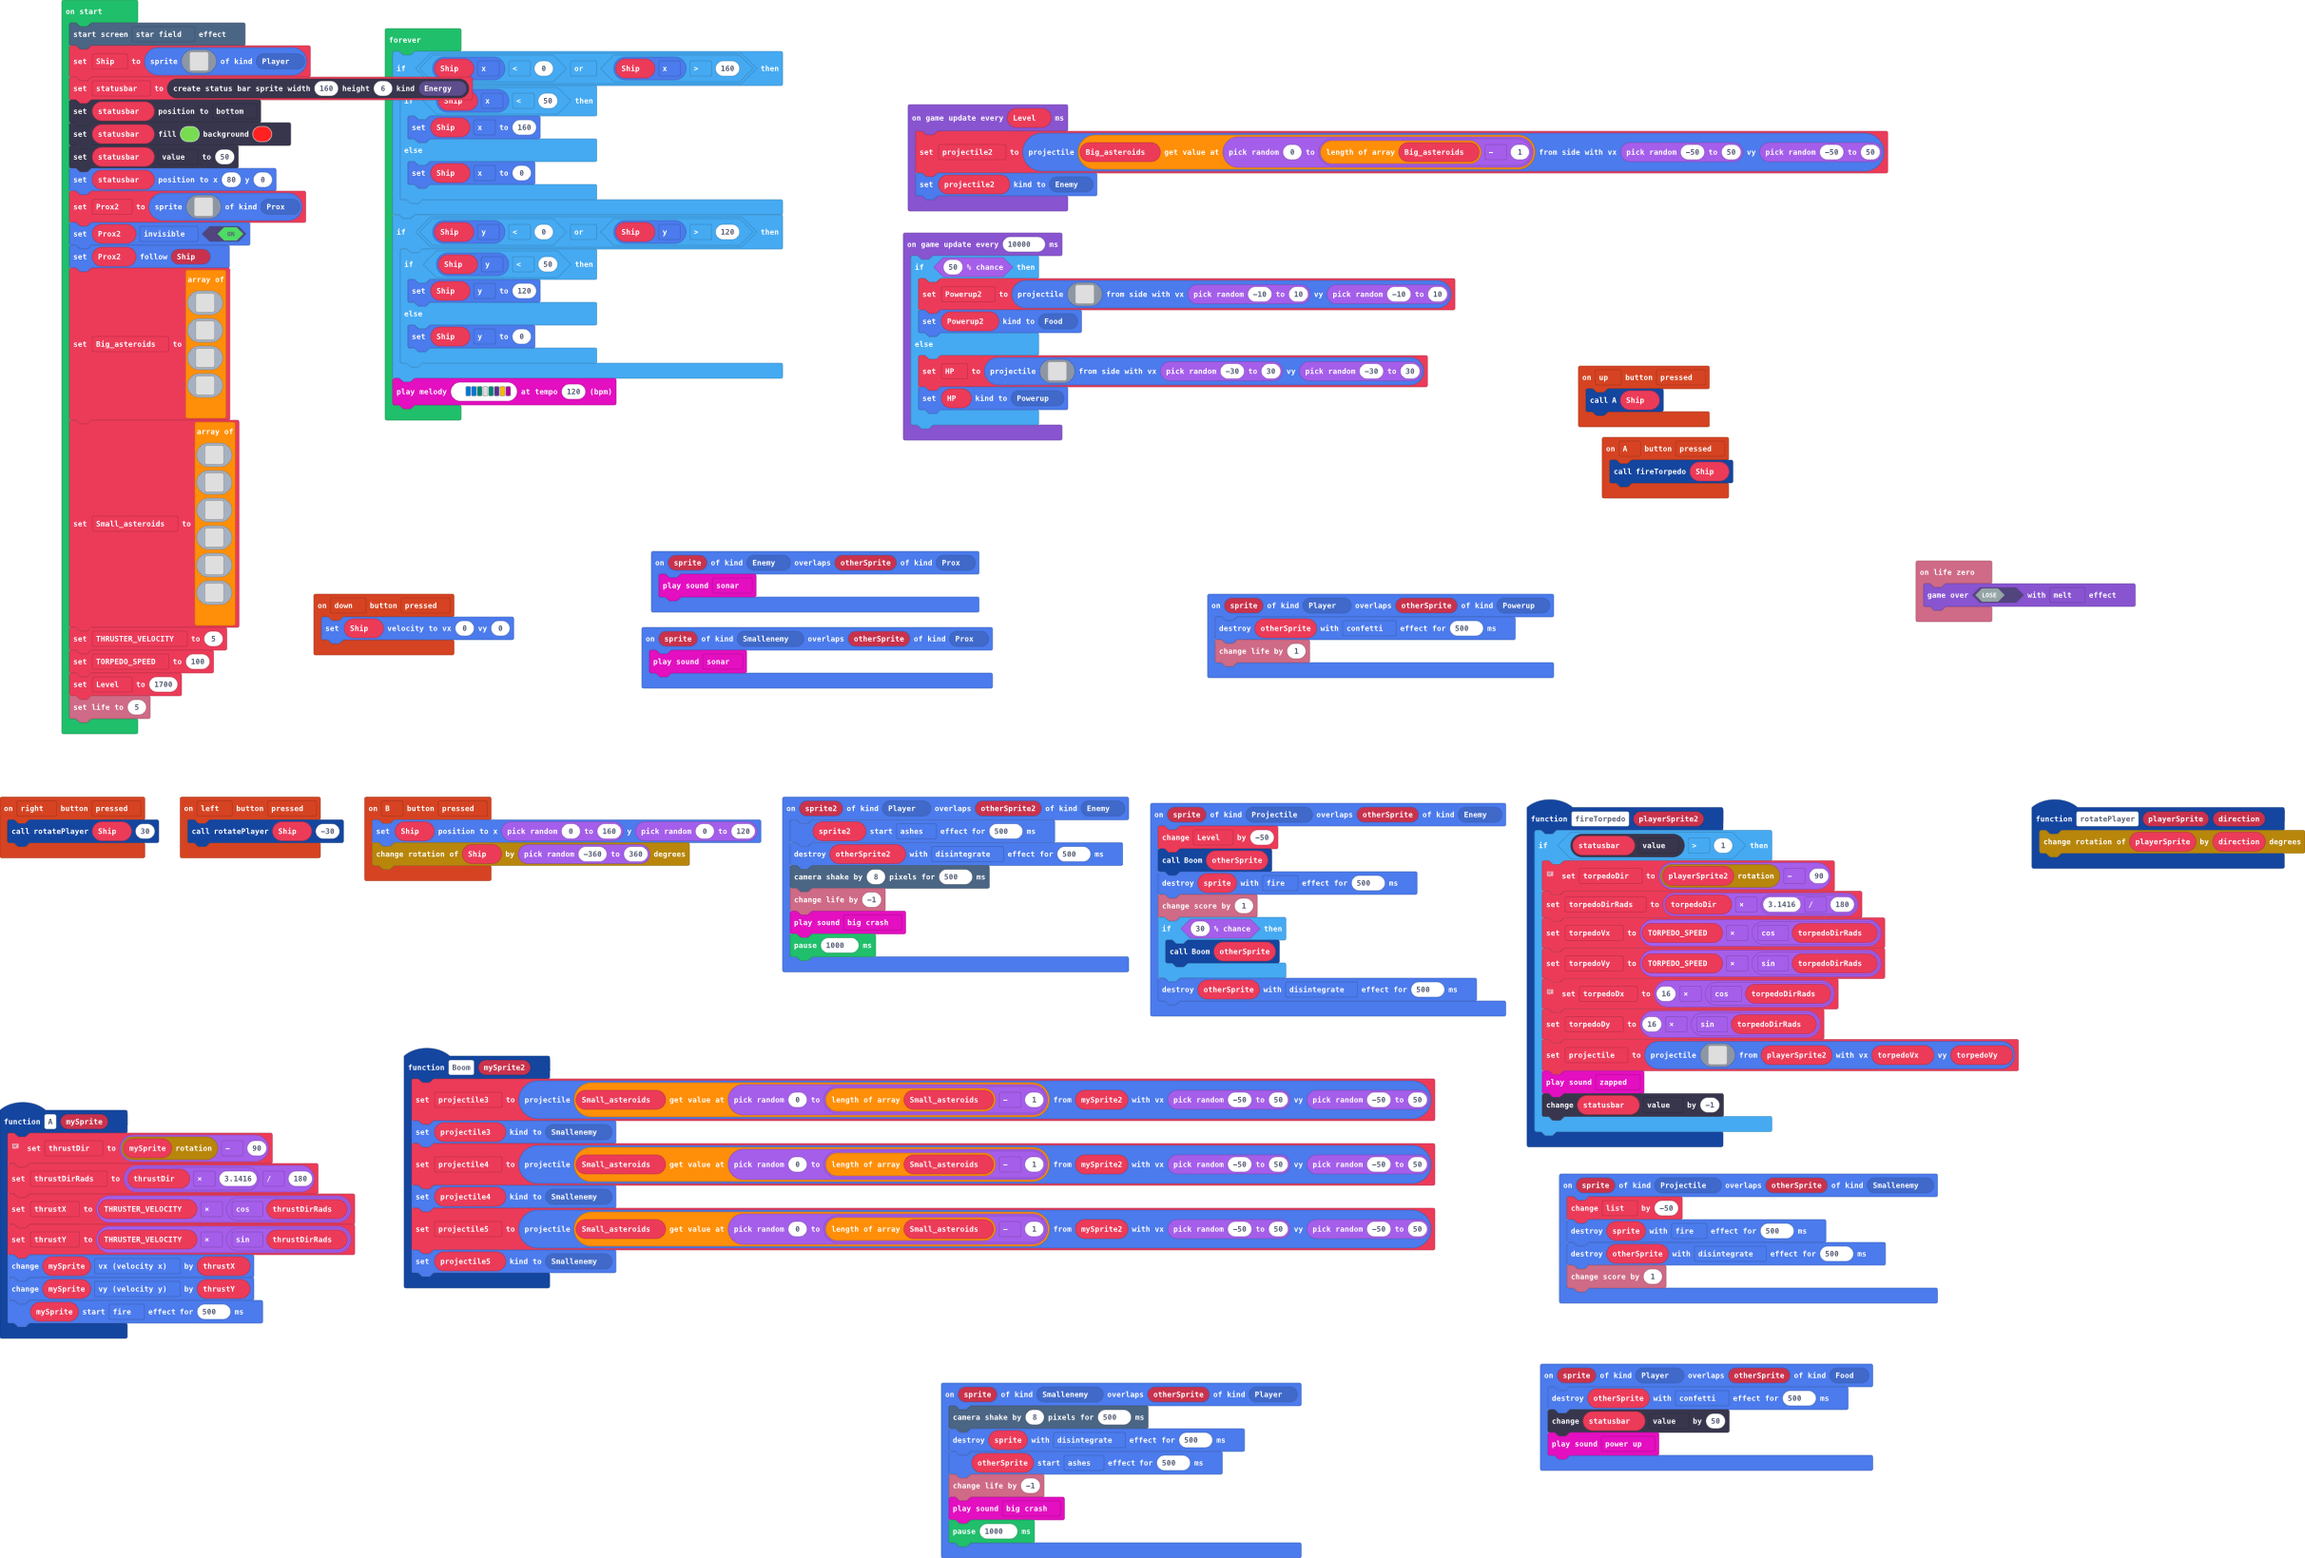
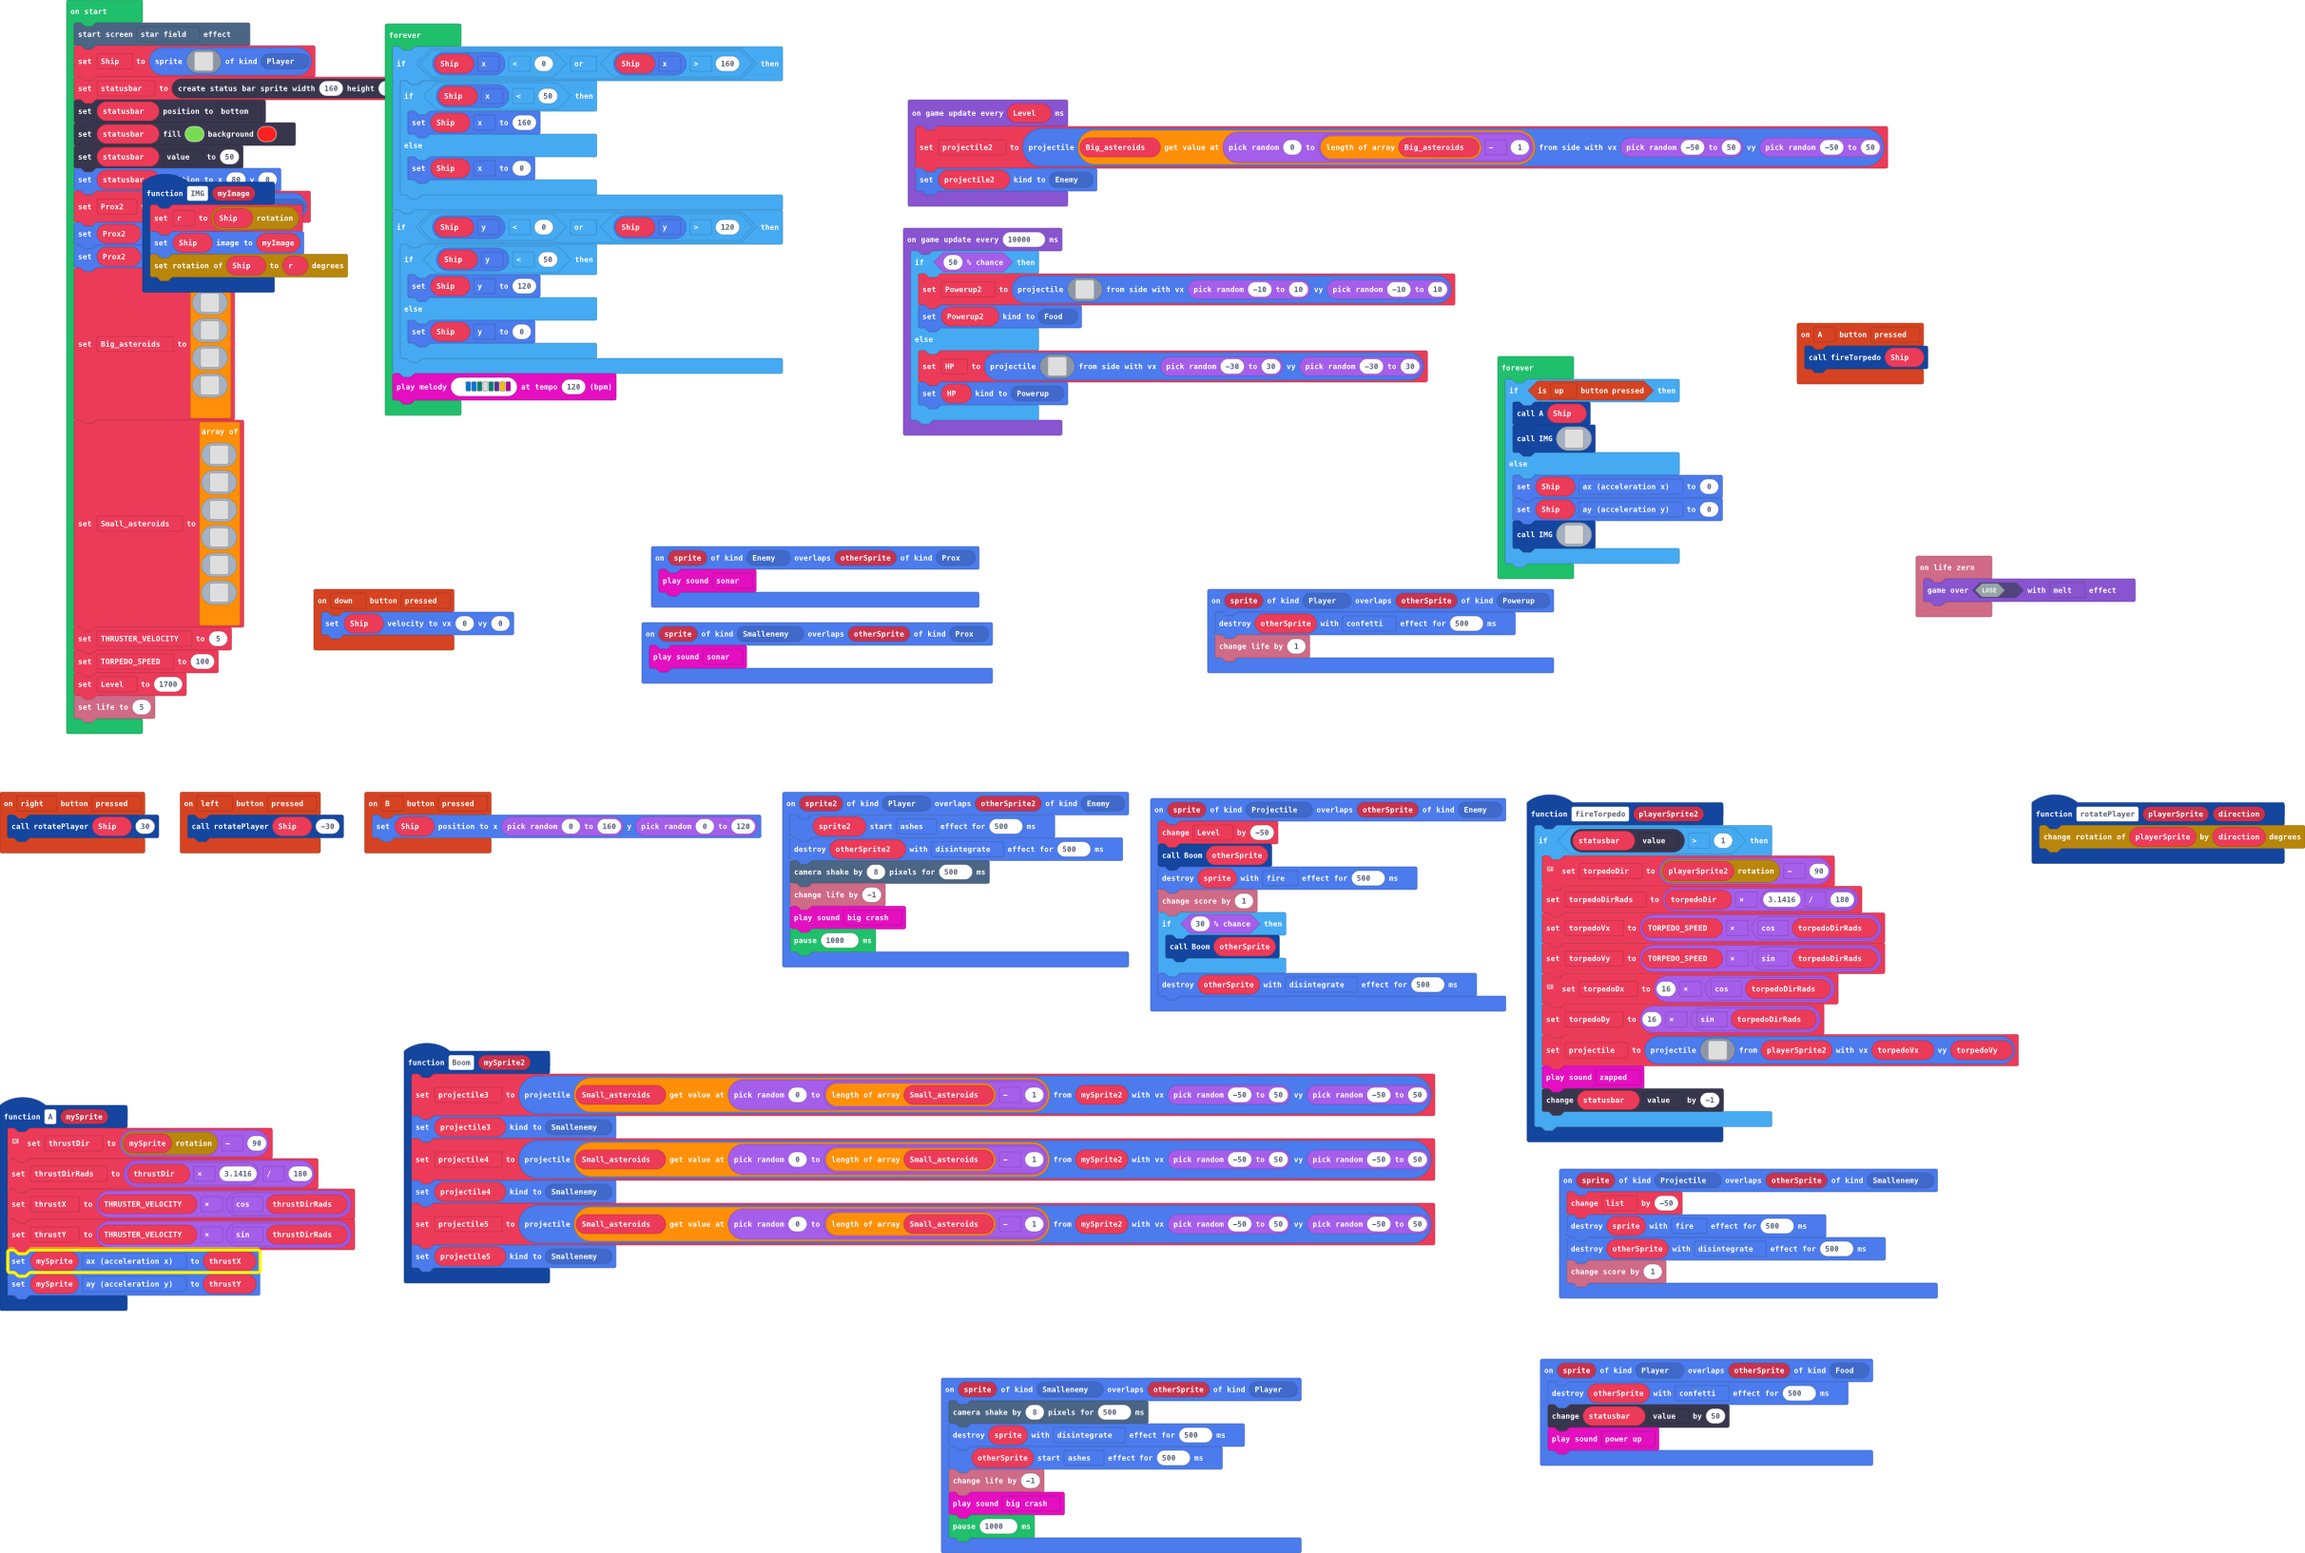
Update pxt.json, main.blocks, main.ts

diff --git a/main.ts b/main.ts
@@ -10,22 +10,17 @@ sprites.onOverlap(SpriteKind.Player, SpriteKind.Powerup, function (sprite, other
 function rotatePlayer (playerSprite: Sprite, direction: number) {
     transformSprites.changeRotation(playerSprite, direction)
 }
-controller.up.onEvent(ControllerButtonEvent.Pressed, function () {
-    A(Ship)
-})
 function A (mySprite: Sprite) {
     // Zero rotation represents north; adjust to correct polar angle.
     thrustDir = transformSprites.getRotation(mySprite) - 90
     thrustDirRads = thrustDir * 3.1416 / 180
     thrustX = THRUSTER_VELOCITY * Math.cos(thrustDirRads)
     thrustY = THRUSTER_VELOCITY * Math.sin(thrustDirRads)
-    mySprite.vx += thrustX
-    mySprite.vy += thrustY
-    mySprite.startEffect(effects.fire, 500)
+    mySprite.ax = thrustX
+    mySprite.ay = thrustY
 }
 controller.B.onEvent(ControllerButtonEvent.Pressed, function () {
     Ship.setPosition(randint(0, 160), randint(0, 120))
-    transformSprites.changeRotation(Ship, randint(-360, 360))
 })
 sprites.onOverlap(SpriteKind.Smallenemy, SpriteKind.Prox, function (sprite, otherSprite) {
     music.sonar.play()
@@ -56,6 +51,11 @@ sprites.onOverlap(SpriteKind.Projectile, SpriteKind.Smallenemy, function (sprite
 controller.right.onEvent(ControllerButtonEvent.Pressed, function () {
     rotatePlayer(Ship, 30)
 })
+function IMG (myImage: Image) {
+    r = transformSprites.getRotation(Ship)
+    Ship.setImage(myImage)
+    transformSprites.rotateSprite(Ship, r)
+}
 controller.down.onEvent(ControllerButtonEvent.Pressed, function () {
     Ship.setVelocity(0, 0)
 })
@@ -138,6 +138,7 @@ let torpedoVy = 0
 let torpedoVx = 0
 let torpedoDirRads = 0
 let torpedoDir = 0
+let r = 0
 let list = 0
 let thrustY = 0
 let thrustX = 0
@@ -149,24 +150,7 @@ let Small_asteroids: Image[] = []
 let statusbar: StatusBarSprite = null
 let Ship: Sprite = null
 effects.starField.startScreenEffect()
-Ship = sprites.create(img`
-    . . . . . . . . . . . . . . . . 
-    . . . . . . . . . . . . . . . . 
-    . . . . . . . . . . . . . . . . 
-    . . . . . . . . . . . . . . . . 
-    . . . . . . . . . . . . . . . . 
-    . . . . . . . . . . . . . . . . 
-    . . . . . . . . . . . . . . . . 
-    . . . . . . . . . . . . . . . . 
-    . . . . . . . . . . . . . . . . 
-    . . . . . . . . . . . . . . . . 
-    . . . . . . . . 7 . . . . . . . 
-    . . . . . . . . 2 . . . . . . . 
-    . . . . . . . 2 2 2 . . . . . . 
-    . . . . . . . 2 2 2 . . . . . . 
-    . . . . . . 2 2 2 2 2 . . . . . 
-    . . . . . 2 2 2 2 2 2 2 . . . . 
-    `, SpriteKind.Player)
+Ship = sprites.create(assets.image`S1`, SpriteKind.Player)
 statusbar = statusbars.create(160, 6, StatusBarKind.Energy)
 statusbar.positionDirection(CollisionDirection.Bottom)
 statusbar.setColor(7, 2)
@@ -504,6 +488,16 @@ forever(function () {
         }
     }
     music.playMelody("E E F - F D A C ", 120)
+})
+forever(function () {
+    if (controller.up.isPressed()) {
+        A(Ship)
+        IMG(assets.image`S2`)
+    } else {
+        Ship.ax = 0
+        Ship.ay = 0
+        IMG(assets.image`S1`)
+    }
 })
 game.onUpdateInterval(10000, function () {
     if (Math.percentChance(50)) {
